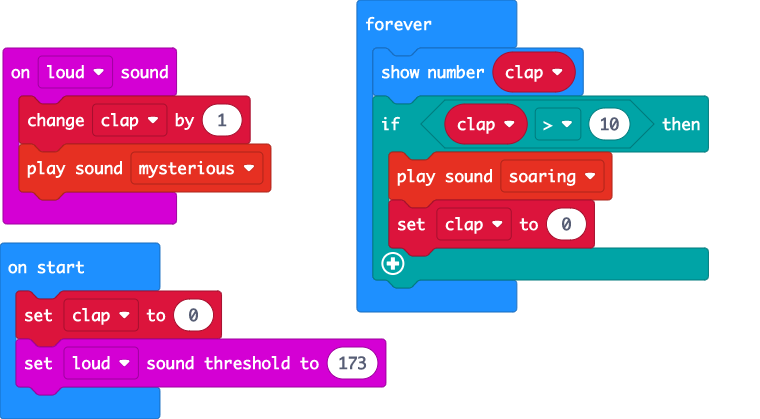
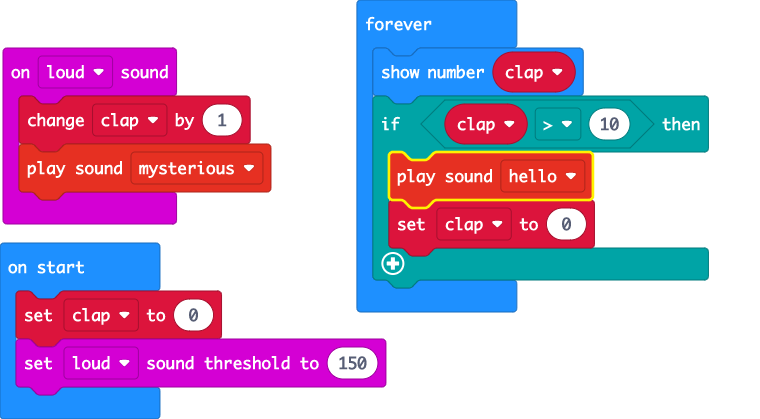
Update main.blocks, main.ts

Changed region(s): [[0.5145, 0.3413, 0.8171, 0.4964], [0.4842, 0.3413, 0.575, 0.4654], [0.4539, 0.8377, 0.4842, 0.8998]]

diff --git a/main.ts b/main.ts
@@ -3,11 +3,11 @@ input.onSound(DetectedSound.Loud, function () {
     soundExpression.mysterious.play()
 })
 let clap = 0
-input.setSoundThreshold(SoundThreshold.Loud, 173)
+input.setSoundThreshold(SoundThreshold.Loud, 150)
 basic.forever(function () {
     basic.showNumber(clap)
     if (clap > 10) {
-        soundExpression.soaring.play()
+        soundExpression.hello.play()
         clap = 0
     }
 })
